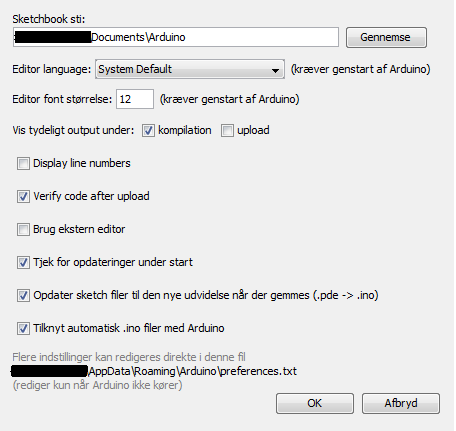
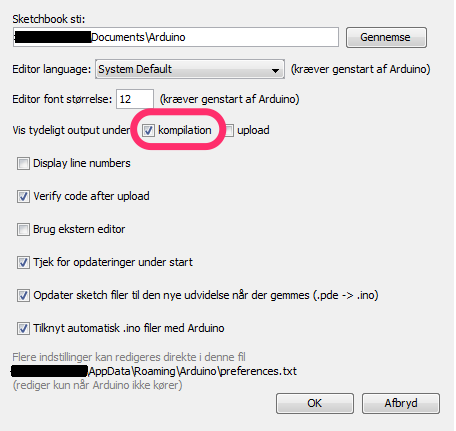
imp view rettelser

Changed region(s): [[0.2763, 0.2413, 0.5219, 0.3619]]

diff --git a/5.Transition/Dokumentation/Systemarkitektur/Kapitler/software/views/compiler.tex b/5.Transition/Dokumentation/Systemarkitektur/Kapitler/software/views/compiler.tex
@@ -3,22 +3,31 @@
 Dette afsnit har til formål at beskrive opsætningen af udviklings IDE'et til Arduino.
 For at kunne gennemføre guiden skal AVR's Atmel Studio 6 og Arduino 1.0 eller højere være installeret på computeren. 
 
-For at kunne compilere projekter til Arduino, kræves Arduino Core biblioteket i Atmel. Dette bibliotek bliver oprettet automatisk i Arduino IDE'et, men skal inkluderes i Atmel Studio.
-Åben Arduino IDE'et og sæt flueben ved: Vis tydeligt output under kompilation.
+For at kunne compilere projekter til Arduino, kræves Arduino Core biblioteket i Atmel. Dette bibliotek bliver kun oprettet i forbindelse med kompileringen af projekter igennem Arduino IDE'et. Biblioteket skal inkluderes i Atmel Studio, derfor skal der først oprettes et Arduino projekt i Arduino IDE'et og kompileres. Dette skal dog kun gøres en gang, for at få oprettet Arduino Core biblioteket så det kan inkluderes.\\
+
+Åben Arduino IDE'et, gå ind i indstillinger og sæt flueben ved: Vis tydeligt output under kompilation.
 
 \begin{figure}[H]
 	\centering
 	\includegraphics[width=0.5\textwidth]{Billeder/implementation/Howtoguide/Arduino_kompiler.png}
+	\caption{Indstillings vindue Arduino}
+	\label{fig:arduino_indstillinger}
 \end{figure}
 
-I Arduino vælges et tilfældigt projekt, den rigtige arduino vælges under Værktøjer -> kort. Hvorefter skal koden kompileres. I vinduet i bunden vises en masse information, bla. stien for hvor core filen ligger. Stien ser ca. sådan ud, hvor det røde skiftes ud med dit brugernavn: 
+I Arduino vælges et tilfældigt projekt, den rigtige arduino vælges under Værktøjer -> kort. Hvorefter skal koden kompileres. I vinduet i bunden vises en masse information, bla. stien for hvor core filen ligger. På figur \ref{fig:arduino_core} ses et eksempel af stien til core filen, i det røde skal udviklerens computer navn stå. 
+
 \begin{figure}[H]
 	\centering
 	\includegraphics[width=0.85\textwidth]{Billeder/implementation/Howtoguide/core_sti.png}
+	\caption{Stien til arduino core fil}
+	\label{fig:arduino_core}
 \end{figure}
-Inde i mappen ligger en core fil, denne fil skal kopieres over i Atmel Studio's workspace. Som standard ligger workspacet i "C:\textbackslash Users\textbackslash din bruger\textbackslash Documents\textbackslash Atmel Studio. 
-Inde i Atmels workspace oprettes en mappe: "ArduinoCore" eller lignende. Core filen kopieres, lægges i mappen og navnet på filen ændres til libcore.
+
+Inde i mappen ligger en core fil, denne fil skal kopieres over i Atmel Studio's workspace. Som standard ligger workspacet i "C:\textbackslash Users\textbackslash computer navn\textbackslash Documents\textbackslash Atmel Studio". 
+Inde i Atmels workspace oprettes en mappe: "ArduinoCore" eller lignende. Core filen kopieres til mappen og navnet ændres til libcore.
 Ved opstart af Atmel, vælges hvilken type chip arduino bruger.
+
+!!!!!! TILFØJ BILLEDE AF ATMEL STUDIE HVOR CHIP TYPE VÆLGES !!!!!
 
 \textbf{Compiler opsætning} \\
 For at kunne kompilere koden, skal de rette indstillinger til Atmel Studio vælges. 
@@ -28,34 +37,42 @@ Toolchain menuen vælges. I configuration vælges All Configurations.
 \begin{figure}[H]
 	\centering
 	\includegraphics[width=0.85\textwidth]{Billeder/implementation/Howtoguide/atmel_toolchain.png}
+	\caption{Atmel toolchain menu}
+	\label{fig:atmel_indstillinger}
 \end{figure}
 
 I menuen for GNU C++ compiler vælges Symbols. Her tilføjes clockfrekvens for arduino chippen og version af Arduino IDE.
-For at tilføje clockfrekvens skrives fx: F\_CPU = 16000000L, hvis ens clockfrekvens er 16MHz.
+For at tilføje clockfrekvens skrives F\_CPU = 16000000L, hvis ens clockfrekvens er 16MHz.
 Arduino IDE version skrives: ARDUINO=106, 106 for version 1.06. \\
 
 Næste trin er at opsætte Directories, det er stierne til de eksterne biblioteker til Atmel. Arduino har nogle biblioteker, som Atmel skal bruge, så dem skal der linkes til.
 Bibliotekerne er henholdsvis Arduino.h og pins\_arduino.h
 Stien til Arduino IDE'et er installations stien og resten af stien er som vist på billedet.
+
 \begin{figure}[H]
 	\centering
 	\includegraphics[width=1\textwidth]{Billeder/implementation/Howtoguide/atmel_directories.png}
+		\caption{Atmel directories menu}
+	\label{fig:atmel_directories}
 \end{figure}
 
 Gå til Optimization menuen under GNU C++ compiler og sæt flueben ved: Prepare functions for garbage collection (-ffunction-sections).\\
 
-I menuen for GNU Linker vælges Libraries. Her tilføjes core filen fra tidligere samt den sti den ligger i. En vigtig detalje er at core skal flyttes op over libm.
+I menuen for GNU Linker vælges Libraries. Her tilføjes core filen fra tidligere samt den sti til filen. En vigtig detalje er at core filen skal ligge over libm filen under Libraries i Atmel, som kan ses på figur \ref{fig:atmel_libraries}.
+
 \begin{figure}[H]
 	\centering
 	\includegraphics[width=1\textwidth]{Billeder/implementation/Howtoguide/atmel_linker.png}
+	\caption{Atmel linker menu}
+	\label{fig:atmel_libraries}
 \end{figure}
 
 Atmel Studio er nu sat op til at fungere sammen med Arduino biblioteker. For at gøre brug af Arduino biblioteket tilføjes Arduino.h til projektet.
 
 \subsubsection*{Eksterne bibliotekter til Atmel}
 
-I Atmel og arduino findes der ikke standard JSon biblioteker, der kan håndtere JSon objekter. Det har derfor været nødvendigt at bruge et eksternt bibliotek, der kan håndtere disse JSon objekter.
-Det anvendte bibliotek hedder aJson\footnote{https://github.com/interactive-matter/aJson} og er et frit tilgængeligt JSon bibliotek som er lavet til Arduino.
+I Atmel og arduino findes der ikke standard JSon biblioteker, der kan håndtere JSON objekter. Det har derfor været nødvendigt at bruge et eksternt bibliotek, der kan håndtere disse JSON objekter.
+Det anvendte bibliotek hedder aJson\footnote{https://github.com/interactive-matter/aJson} og er et frit tilgængeligt JSON bibliotek som er lavet til Arduino.
 
 
 \subsubsection*{Filoversigt Drone}
@@ -66,40 +83,51 @@ Dette afsnit omhandler de forskellige filer og biblioteker der er anvendt i Atme
 \begin{figure}[H]
 	\centering
 	\includegraphics[width=0.25\textwidth]{Billeder/implementation/Howtoguide/atmel_filer.png}
+	\caption{Atmel mappestruktur}
+	\label{fig:drone_mappestruktur}
 \end{figure}
 
 \textbf{aJSon}\\
-JSon biblioteket håndterer sammen med stringbuffer biblioteket de JSon objekter der bruges af dronen. Der kan læses mere om JSon biblioteket her\footnote{https://github.com/interactive-matter/aJson} \\ \\
+JSON biblioteket håndterer sammen med stringbuffer biblioteket de JSon objekter der bruges af dronen. Der kan læses mere om JSon biblioteket her\footnote{https://github.com/interactive-matter/aJson} \\ \\
+
 \textbf{Communication}\\
 Communication klassen er den klasse der håndterer al kommunikation til dronen. Communication klassen er den øverste klasse i forhold til kommunikationen over 3G. \\ \\
+
 \textbf{DistanceSensor}\\
 Denne klasses funktionalitet er aflæsningen af sensorværdierne. \\ \\
+
 \textbf{Drone\_fly}\\
 Dette er selve mainen til systemet. Det er denne fil der håndterer alle andre klasser der anvendes i drone systemet. \\ \\
+
 \textbf{EventHandler}\\
 EventHandleren håndterer alle GET og PUT metoder der har med events at gøre. \\ \\
+
 \textbf{FlightControl}\\
 FlightControl klassen styrer selve dronen. Den får input fra både Flight Control boarded og 3G/GPS shieldet og udregner bl.a. orientering. \\ \\
+
 \textbf{GetAndPut}\\
 GetAndPut klassen er den klasse der er mest hardware nær i forhold til kommunikationen over 3G. Det er denne klasse der kontrollerer hvilken GET og PUT requests der skal sendes og til hvilken server. \\ \\ 
+
 \textbf{GPS}\\
 Denne klasse er en abstrakt klasse, som kun indeholder virtuelle metoder. Det gør at andre klasser der bruger denne abstrakte klasse, som minimum skal implementere de virtuelle metoder. \\ \\
+
 \textbf{sendAT}\\
-sendAT er taget med for at kunne sende AT kommandoer til 3G/GPS shieldet. \\ \\
+sendAT klassens ansvar er at sende AT kommandoer til 3G/GPS shieldet. !!!!! TILFØJ FODNOTE TIL KODEN !!!!\\ \\ 
+
 \textbf{standAloneGps}\\
-standAloneGps håndterer den valgte GPS og de metoder der skal bruges for at hente GPS koordinater. \\ \\
+standAloneGps håndterer systemets GPS og de metoder der skal bruges for at hente GPS koordinater. \\ \\
+
 \textbf{waypoint}\\
-Waypoint klassen håndterer det data WayPointsHandleren får.\\ \\
+Waypoint klassen bruges til at pakke alt information omkring et givet waypoint ind i et objekt.\\ \\
+
 \textbf{WayPointsHandler}\\
-WayPointsHandleren håndterer alle GET og PUT metoder der har med  waypoints at gøre. \\ \\
-
-
+WayPointsHandleren håndterer alle GET og PUT metoder der har med waypoints at gøre. \\ \\
 
 \newpage
 
 \subsubsection*{Opsætning af serial programmerings link}
 
-For at kunne uploade kode til en arduino, skal der anvendes et andet program.
+For at kunne uploade kode til en Arduino, udenom Arduino IDE'et, skal der anvendes et program til programmering igennem den serielle forbindelse.
 Megunolink lite er et program med en brugergrænseflade der kan anvendes til at sende og modtage seriel data fra en arduino.\\
 MegunoLink lite hentes her\footnote{http://www.megunolink.com/megunolink-lite/megunolink-lite-plotting-tool/}.
 
@@ -110,13 +138,20 @@ I configuration benyttes "use custom path" og ved AVRDude stien linkes til stien
 \begin{figure}[H]
 	\centering
 	\includegraphics[width=0.7\textwidth]{Billeder/implementation/Howtoguide/megunolink_config.png}
+	\caption{Konfigurer MegunoLink}
+	\label{fig:Konfigurer_MegunoLink}
 \end{figure}
 
-For at kunne uploade, skal MegunoLink vide hvor hex filen ligger, denne vælges i edit project properties også stien for det valgte projekt.
+For at kunne uploade, skal MegunoLink vide hvor hex filen ligger. Dette vælges i edit project properties også stien for det valgte projekt.
 I dropdown menuen vælges den arduino der skal bruges til projektet.
+
+!!!! TILFØJ LIDT MERE FORKLARING HER OG EVT. ET NYT BILLEDE. !!!!!!!
+
 \begin{figure}[H]
 	\centering
 	\includegraphics[width=1\textwidth]{Billeder/implementation/Howtoguide/meguno_bar.png}
+	\caption{MegunoLink edit menu}
+	\label{fig:MegunoLink}
 \end{figure}
 
 
